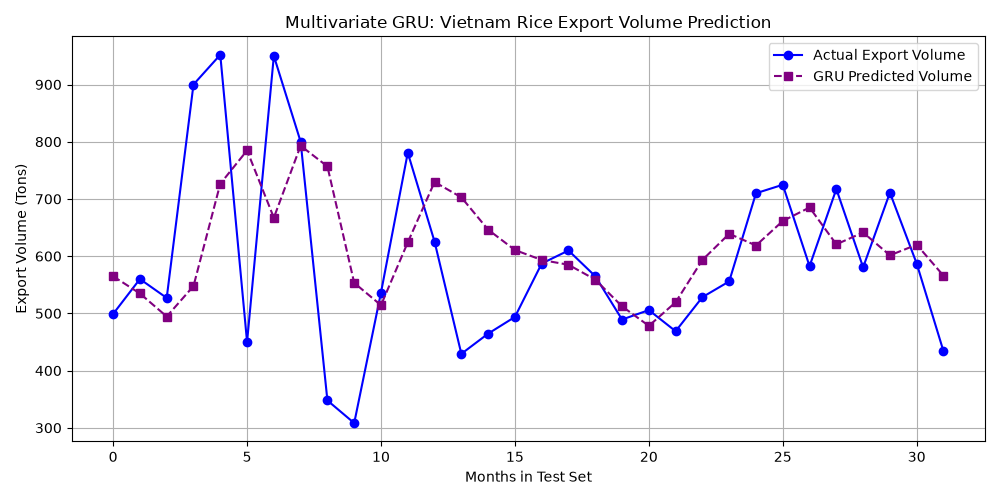
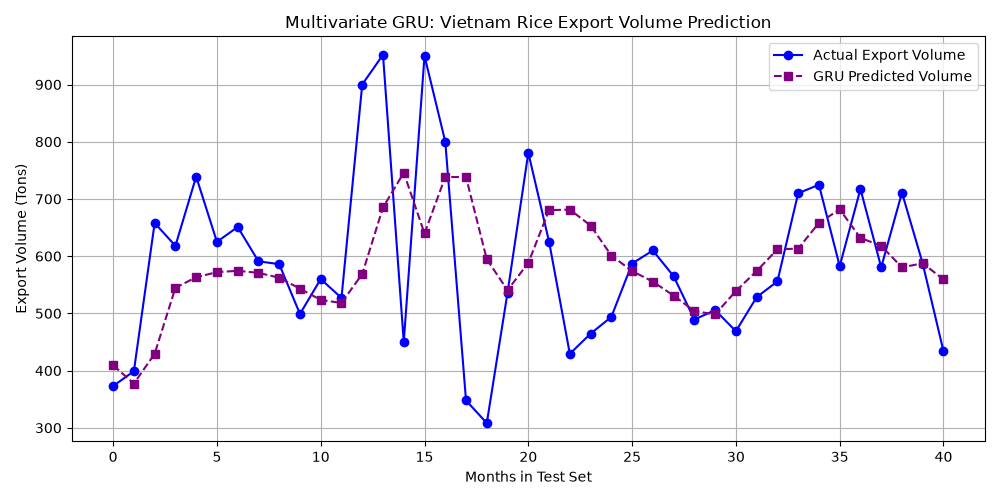
Update model

diff --git a/XGBoost.py b/XGBoost.py
@@ -5,11 +5,12 @@ from sklearn.metrics import mean_squared_error, mean_absolute_error
 import matplotlib.pyplot as plt
 
 # 1. Load data
-df = pd.read_csv('data.csv')
+df = pd.read_csv('rice_data.csv')
 
 # 2. Feature engineering for tabular/tree-based models
-# Convert Month to datetime
-df['Date'] = pd.to_datetime(df['Month'], format='%b-%y')
+# Build dates from row order (continuous monthly data, Jan 2005 - Dec 2022).
+# The Month column in rice_data.csv was mangled by a spreadsheet, so it is not parsed.
+df['Date'] = pd.date_range(start='2005-01-01', periods=len(df), freq='MS')
 df['Month_Num'] = df['Date'].dt.month
 df['Quarter'] = df['Date'].dt.quarter
 df['Year'] = df['Date'].dt.year

diff --git a/GRU.py b/GRU.py
@@ -6,8 +6,12 @@ from sklearn.preprocessing import MinMaxScaler
 from sklearn.metrics import mean_squared_error, mean_absolute_error
 import matplotlib.pyplot as plt
 
+# Fix the random seed so results are reproducible
+torch.manual_seed(42)
+np.random.seed(42)
+
 # 1. Load Data
-df = pd.read_csv('data.csv')
+df = pd.read_csv('rice_data.csv')
 features = [
     'Vietnam Exporting Volume (Tons)', 
     'Exchange Rate (thousand VND/Dollar)', 

diff --git a/LSTM.py b/LSTM.py
@@ -6,6 +6,10 @@ from sklearn.preprocessing import MinMaxScaler
 from sklearn.metrics import mean_squared_error, mean_absolute_error
 import matplotlib.pyplot as plt
 
+# Fix the random seed so results are reproducible
+torch.manual_seed(42)
+np.random.seed(42)
+
 # 1. Load Data & Select Multivariate Features
 df = pd.read_csv('rice_data.csv')
 features = [
